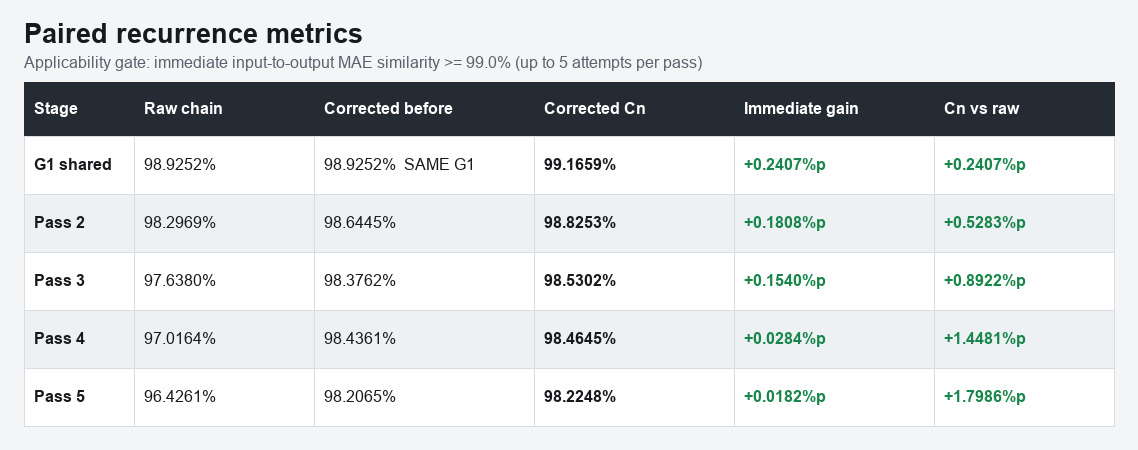
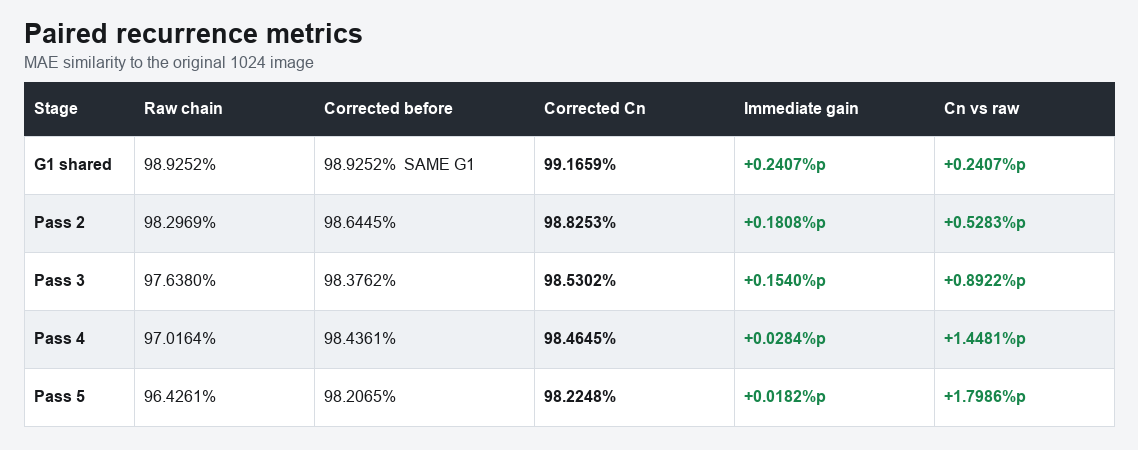
Remove recurrence selection details

Changed region(s): [[0.0, 0.1244, 0.6151, 0.1556]]

diff --git a/experiments/recurrence_5x/README.md b/experiments/recurrence_5x/README.md
@@ -7,8 +7,6 @@
 - Request: 1K, 1:1, fixed no-change prompt
 - Shared first pass: the exact same `G1` file is used by both chains
 - Corrected recurrence: each corrected `Cn` becomes the input to the next Gemini pass
-- Applicability gate: immediate input-to-output MAE similarity must be at least `99.0%`
-- Retry policy: up to five Gemini attempts per pass; rejected outputs remain in `gate_attempts.csv`
 - Metric: MAE similarity to the original 1024 image
 
 ```text
@@ -32,8 +30,6 @@ corrected: G1 -> C1 -> G2' -> C2 -> G3' -> C3 -> G4' -> C4 -> G5' -> C5
 
 ![Paired recurrence contact sheet](comparison_contact_sheet.png)
 
-The correction improved the accepted image at every pass. Passes 3 and 5 each rejected one large-regeneration output before accepting an in-scope no-change result. The accepted attempt indices were `1, 2, 1, 2` for passes 2 through 5.
-
 The final corrected-chain similarity was `98.2248%`, compared with `96.4261%` for the raw chain, a difference of `+1.7986%p`. The mean immediate correction gain across five passes was `+0.1244%p`.
 
-The original ungated single run is retained in [`ungated_single_run/`](ungated_single_run/) as an audit appendix. The gate defines the model's low-deformation application scope; it is not a claim about recovery from large Gemini regeneration.
+The correction improved the current image at every pass. The later chain-to-chain comparison also contains Gemini sampling variance because the corrected image changes the next request input.

diff --git a/README.md b/README.md
@@ -57,7 +57,7 @@ MAE similarity는 `100 * (1 - mean(abs(candidate - reference)) / 255)`로 계산
 
 여기서 `C1 = correction(G1)`, 이후 `Cn = correction(Gn')`이며, 매회 보정된 `Cn`을 다음 Gemini 호출의 입력으로 사용했습니다.
 
-최종 MAE similarity는 무보정 체인 `96.4261%`, 적용 범위 게이트를 통과한 매회 보정 체인 `98.2248%`로 `+1.7986%p` 높았습니다. 각 회차에서 보정 직전과 직후만 비교하면 5회 모두 양수였고 평균은 `+0.1244%p`였습니다. 3회차와 5회차에서는 큰 재생성 출력이 각각 1장씩 게이트에서 제외됐습니다. 두 체인의 단계별 차이에는 Gemini 샘플링과 입력 분기 효과도 포함되므로 보정 모델 하나의 인과 효과로만 해석하면 안 됩니다.
+최종 MAE similarity는 무보정 체인 `96.4261%`, 매회 보정 체인 `98.2248%`로 `+1.7986%p` 높았습니다. 각 회차에서 보정 직전과 직후만 비교하면 5회 모두 양수였고 평균은 `+0.1244%p`였습니다. 두 체인의 단계별 차이에는 Gemini 샘플링과 입력 분기 효과도 포함되므로 보정 모델 하나의 인과 효과로만 해석하면 안 됩니다.
 
 ![Paired recurrence metrics](experiments/recurrence_5x/paired_metrics_table.png)
 
